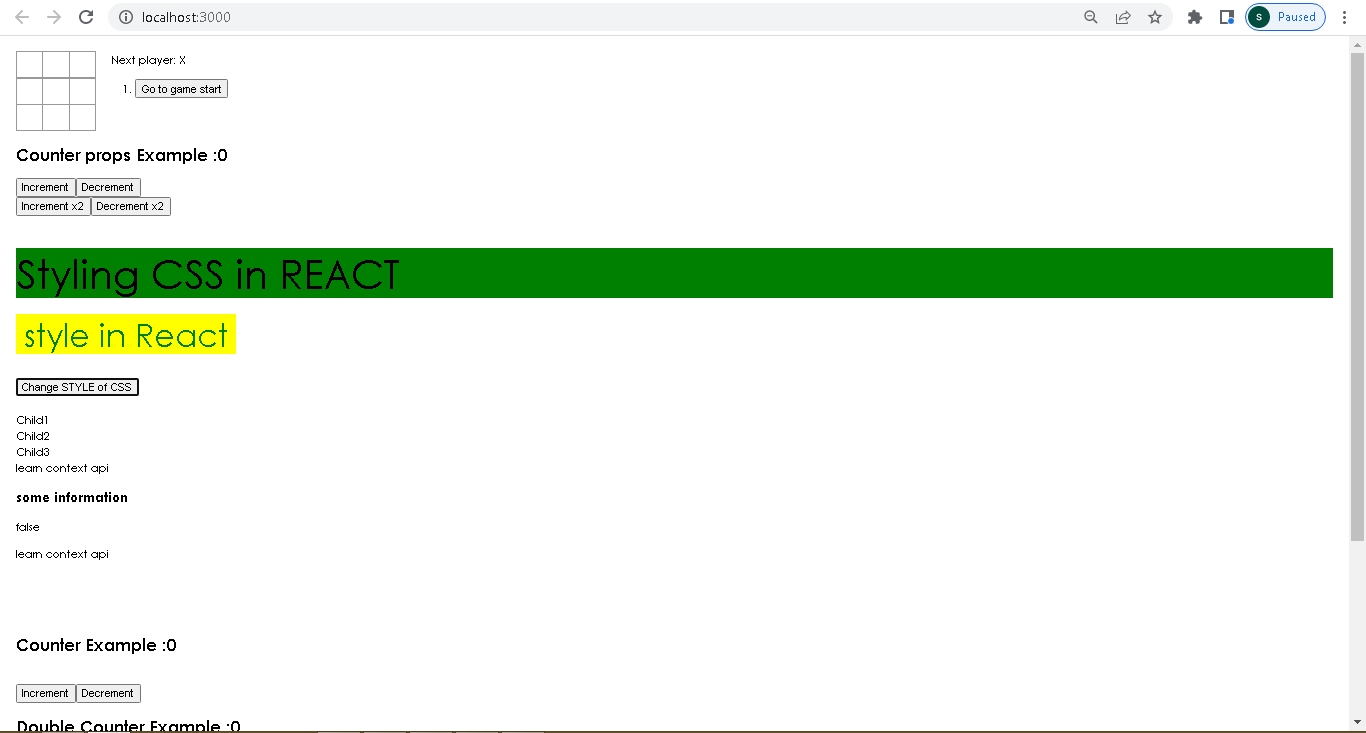
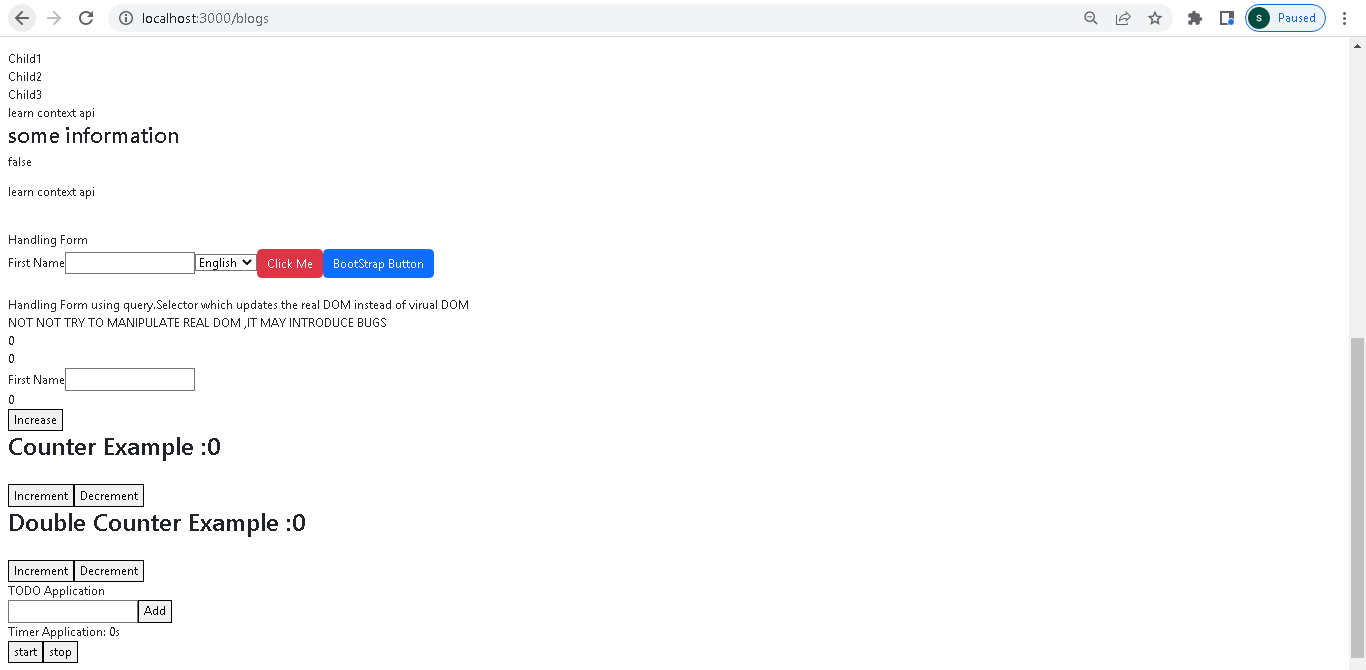
10th commit

diff --git a/src/index.js b/src/index.js
@@ -8,6 +8,8 @@ import Todo from './Components/Todo'
 import Timer from './Components/Timer'
 import ReverseCounter from './Components/ReverseCounter'
 import 'bootstrap/dist/css/bootstrap.min.css';
+import FileRoute from "./Router/FileRoute"
+import { BrowserRouter } from 'react-router-dom';
 
    function calculateWinner(squares) {
     const lines = [
@@ -39,25 +41,6 @@ function Square(props) {
 
 
 class Board extends React.Component {
-//  constructor(props) {
-//    super(props);
-//    this.state = {
-//      squares: Array(9).fill(null),
-//       xIsNext: true,
-//    };
-//  }
-
-//    handleClick(i) {
-//    const squares = this.state.squares.slice();
-//    if (calculateWinner(squares) || squares[i]) {
-//      return;
-//    }
-//      squares[i] = this.state.xIsNext ? 'X' : 'O';
-//      this.setState({
-//        squares: squares,
-//        xIsNext: !this.state.xIsNext,
-//      });
-//    }
 
   renderSquare(i) {
     return (
@@ -173,7 +156,7 @@ const root = ReactDOM.createRoot(document.getElementById("root"));
 //root.render(<Game />,<App />);
 
 root.render(
-  <div>
+  <div style={{margin:"10px"}}>
     <Game />
     <App />
     <Counter />
@@ -181,5 +164,8 @@ root.render(
     <Todo/>
     <Timer />
     <ReverseCounter />
+    <BrowserRouter>
+    <FileRoute/>
+    </BrowserRouter>
   </div>
 );

diff --git a/src/Router/FileRoute.js b/src/Router/FileRoute.js
@@ -1,0 +1,26 @@
+import {Link, Routes, Route} from 'react-router-dom'
+import Home from './Home';
+import Blogs from './Blogs';
+import Blog from './Blog';
+import Navigation from './Navigation';
+import Root from "./Root"
+
+const FileRoute=()=>{
+return (
+<div>
+    <Navigation />
+
+
+      <Routes>
+        <Route path='/home'  element={<Home/>}></Route>
+        <Route path='/root'  element={<Root/>}></Route>
+        <Route path='/blogs'  element={<Blogs/>}></Route>
+        <Route path='/blogs/:blogId'  element={<Blog/>}></Route>
+        <Route path='*' element={<div>Error Page</div>} ></Route>
+      </Routes>
+</div>
+)
+}
+
+export default FileRoute
+

diff --git a/src/Router/Root.js b/src/Router/Root.js
@@ -1,0 +1,8 @@
+import React from 'react'
+
+export default function Root() {
+//    const {id}= useParams()
+  return (
+    <div>Root</div>
+  )
+}

diff --git a/README.md b/README.md
@@ -1,7 +1,8 @@
-![](Capture.PNG)
-![](Capture2.PNG)
+![](Capture0.PNG)
 ![](Capture1.PNG)
+![](Capture2.PNG)
 
 This is collections of small react application, which covers tic tac toe,<br/>
 counter,Timer,Todo,ReverseCounter,styling in css,context alternative to prop <br/>
-drilling which uses useState,useRef,useEffect,components
+drilling,reactstrap,Form handling which uses <br />
+useState,useEffect,Routes,useRef,createRef,Context,Provider,Consumer <br />
